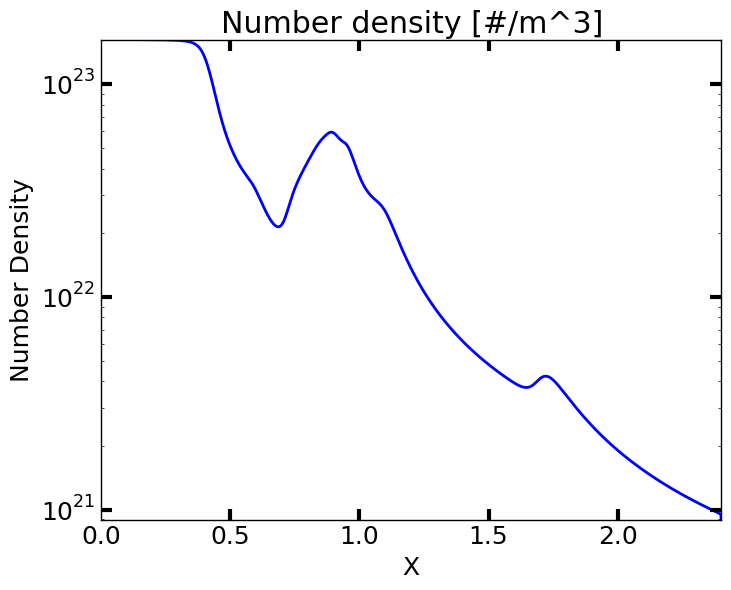
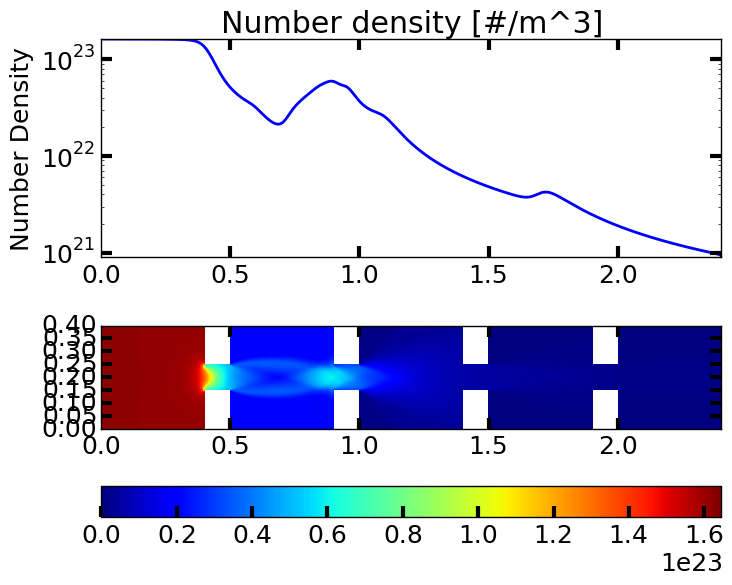
Added new figures and updated notes

diff --git a/sims-2/vapor-box/reps/vap-box-reps.tex b/sims-2/vapor-box/reps/vap-box-reps.tex
@@ -88,11 +88,11 @@ function vaporPressure(Twall)
 end
 \end{verbatim}
 Once pressure is determined, the number density is computed assuming
-that the evaporated vapor is at the same temperature as the
-wall\footnote{It is possible that these BCs are not quite correct. We
-  have computed fluxes based on drifting Maxwellians also, but these
-  are harder to implement. Eventually, I plan to use the flux BCs
-  (rather than the current ghost BCs) exclusively.}.
+that the evaporated vapor is at the same temperature as the wall
+% \footnote{It is possible that these BCs are not quite correct. We have
+%   computed fluxes based on drifting Maxwellians also, but these are
+%   harder to implement. Eventually, I plan to use the flux BCs (rather
+%   than the current ghost BCs) exclusively.}.
 
 \section{Notes on equations and solver}
 
@@ -148,59 +148,130 @@ carefully on dozens of difficult problems.\footnote{See
   for 3D tests.}.
 
 
-\section{Chain of two boxes}
+% \section{Chain of two boxes}
 
-To get some insight into the flow I have setup a chain of 2
-boxes. Each box is $0.4\times 0.4$~m and the slot connecting them is
-$10$~cm wide, with a $10$~cm length. The left box walls are held to a
-fixed temperature of $950^o$~C and the right box to $300^o$~C. Note
-that baffles are held to the same temperature as the wall. The
-simulation is run to steady-state. Profiles along the centerline of
-the vapor box are shown below.
-\begin{figure}[h]%
-  \setkeys{Gin}{width=0.3\linewidth,keepaspectratio}
-  \incfig{s3-two-box-chain-mach.png}
-  \incfig{s3-two-box-chain-numDensity.png}
-  \incfig{s3-two-box-chain-temperature.png}
-  \caption{Mach number, number density and temperature along
-    centerline from a two-box chain.}
-\end{figure}
+% To get some insight into the flow I have setup a chain of 2
+% boxes. Each box is $0.4\times 0.4$~m and the slot connecting them is
+% $10$~cm wide, with a $10$~cm length. The left box walls are held to a
+% fixed temperature of $950^o$~C and the right box to $300^o$~C. Note
+% that baffles are held to the same temperature as the wall. The
+% simulation is run to steady-state. Profiles along the centerline of
+% the vapor box are shown below.
+% \begin{figure}[ht]%
+%   \setkeys{Gin}{width=0.3\linewidth,keepaspectratio}
+%   \incfig{s3-two-box-chain-mach.png}
+%   \incfig{s3-two-box-chain-numDensity.png}
+%   \incfig{s3-two-box-chain-temperature.png}
+%   \caption{Mach number, number density and temperature along
+%     centerline from a two-box chain.}
+% \end{figure}
 
-The 2D colorplots of these quantities are shown below
-\begin{figure}[h]%
-  \setkeys{Gin}{width=0.5\linewidth,keepaspectratio}
-  \incfig{s3-two-box-chain_mach_00010.png}
-  \incfig{s3-two-box-chain_numDensity_00010.png}
-  \incfig{s3-two-box-chain_temp_00010.png}
-  \caption{Mach number (top), number density (middle) and temperature
-    (bottom) from a two-box chain simulation.}
-\end{figure}
+% The 2D colorplots of these quantities are shown below
+% \begin{figure}[ht]%
+%   \setkeys{Gin}{width=0.5\linewidth,keepaspectratio}
+%   \incfig{s3-two-box-chain_mach_00010.png}
+%   \incfig{s3-two-box-chain_numDensity_00010.png}
+%   \incfig{s3-two-box-chain_temp_00010.png}
+%   \caption{Mach number (top), number density (middle) and temperature
+%     (bottom) from a two-box chain simulation.}
+% \end{figure}
 
-\section{Chain of five boxes}
+\section{Chain of five boxes: Lithium covered baffles}
 
 I ran a five-box chain simulation to steady state. Each box is
 $0.4\times 0.4$~m and the slot connecting them is $10$~cm wide, with a
 $10$~cm length. Each box walls (including baffles) are held at a fixed
 temperature, as specified in Rob's paper. The simulation is run to
-steady-state. Profiles along the centerline of the vapor box are shown
-below.
-\begin{figure}[h]%
-  \setkeys{Gin}{width=0.3\linewidth,keepaspectratio}
-  \incfig{s6-four-box-chain-mach.png}
+steady-state. Profiles of various quantities are shown below.
+\begin{figure}[ht]%
+  \setkeys{Gin}{width=0.75\linewidth,keepaspectratio}
   \incfig{s6-four-box-chain-ln-numDensity.png}
+  \caption{Number density from a five-box chain, with Lithium
+    covered baffles. See {\tt vapor\-box/s6} for input file.}
+\end{figure}
+\begin{figure}[ht]%
+  \setkeys{Gin}{width=0.75\linewidth,keepaspectratio}
   \incfig{s6-four-box-chain-temperature.png}
-  \caption{Mach number, number density and pressure along centerline
-    from a five-box chain. See {\tt vapor\-box/s6} for input file.}
+  \caption{Temperature from a five-box chain, with Lithium covered
+    baffles. Note the temperature drops below the condensation point,
+    and hence the Lithium would form droplets and even Lithium
+    ``snow''. A true snow-flake divertor! However, the incoming heat
+    flux along the LCFS from the tokamak will probably prevent the
+    temperature dropping so much. It remains to be seen. See {\tt
+      vapor\-box/s6} for input file.}
+\end{figure}
+\begin{figure}[ht]%
+  \setkeys{Gin}{width=0.75\linewidth,keepaspectratio}
+  \incfig{s6-four-box-chain-xvel.png}
+  \caption{X velocity from a five-box chain, with Lithium covered
+    baffles. The flow velocity increases rapidly, however, consistent
+    with flow into vacuum, asymptotes to a maximum value, which can be
+    determined from conservation of enthalpy along streamlines. See
+    {\tt vapor\-box/s6} for input file.}
+\end{figure}
+\begin{figure}[ht]%
+  \setkeys{Gin}{width=0.75\linewidth,keepaspectratio}
+  \incfig{s6-four-box-chain-mach.png}
+  \caption{Mach number from a five-box chain, with Lithium covered
+    baffles. For $x>1$ the Mach number increases linearly (consistent
+    with flow into vacuum) as the temperature drops rapidly, even
+    though the flow velocity reaches a maximum value as shown in the
+    above figure. See {\tt vapor\-box/s6} for input file.}
 \end{figure}
 
-The 2D colorplots of these quantities are shown below
-\begin{figure}[h]%
-  \incfig{s6-four-box-chain_mach_00010.png}
-  \incfig{s6-four-box-chain_numDensity_00010.png}
-  \incfig{s6-four-box-chain_temp_00010.png}
-  \caption{Mach number (top), number density (middle) and temperature
-    (bottom) from a five-box chain simulation. See {\tt vapor\-box/s6}
+\section{Chain of five boxes: Equilibriated (reflecting) baffles}
+
+I ran a five-box chain simulation to steady state. Each box is
+$0.4\times 0.4$~m and the slot connecting them is $10$~cm wide, with a
+$10$~cm length. Each box wall is held at a fixed temperature, as
+specified in Rob's paper. The baffles are assumed to be in equilibrium
+with the vapor impinging on them, and are hence treated as perfect
+reflectors\footnote{The flux in the normal direction on the baffles is
+  set to zero, and the fluid is allowed to slip tangentially,
+  consistent with the invicid approximation.}. The simulation is run to
+steady-state. Profiles of various quantities are shown below.
+
+The key difference between the Lithium covered and equilibrated
+baffles cases is the formation of a standing shock just behind each
+baffle. This happens as the vapor reflects off the wall, increasing
+back-pressure and eventually forming a standing shock a few
+centimeters behind each baffle.
+
+\begin{figure}[ht]%
+  \setkeys{Gin}{width=0.75\linewidth,keepaspectratio}
+  \incfig{s7-four-box-chain-ln-numDensity.png}
+  \caption{Number density from a five-box chain, reflecting baffle
+    case. See {\tt vapor\-box/s7} for input file.}
+\end{figure}
+\begin{figure}[ht]%
+  \setkeys{Gin}{width=0.75\linewidth,keepaspectratio}
+  \incfig{s7-four-box-chain-temperature.png}
+  \caption{Temperature from a five-box chain, reflecting baffle
+    case. Note the temperature drops below the condensation point, and
+    hence the Lithium would form droplets and even Lithium ``snow''. A
+    true snow-flake divertor! However, the incoming heat flux along
+    the LCFS from the tokamak will probably prevent the temperature
+    dropping so much. It remains to be seen. See {\tt vapor\-box/s7}
     for input file.}
 \end{figure}
+\begin{figure}[ht]%
+  \setkeys{Gin}{width=0.75\linewidth,keepaspectratio}
+  \incfig{s7-four-box-chain-xvel.png}
+  \caption{X velocity from a five-box chain, reflecting baffle
+    case. The flow velocity increases rapidly, however, consistent
+    with flow into vacuum, asymptotes to a maximum value, which can be
+    determined from conservation of enthalpy along streamlines. See
+    {\tt vapor\-box/s7} for input file.}
+\end{figure}
+\begin{figure}[ht]%
+  \setkeys{Gin}{width=0.75\linewidth,keepaspectratio}
+  \incfig{s7-four-box-chain-mach.png}
+  \caption{Mach number from a five-box chain, reflecting baffle
+    case. For $x>1$ the Mach number increases linearly (consistent
+    with flow into vacuum) as the temperature drops rapidly, even
+    though the flow velocity reaches a maximum value as shown in the
+    above figure. See {\tt vapor\-box/s7} for input file.}
+\end{figure}
+
 
 \end{document}
